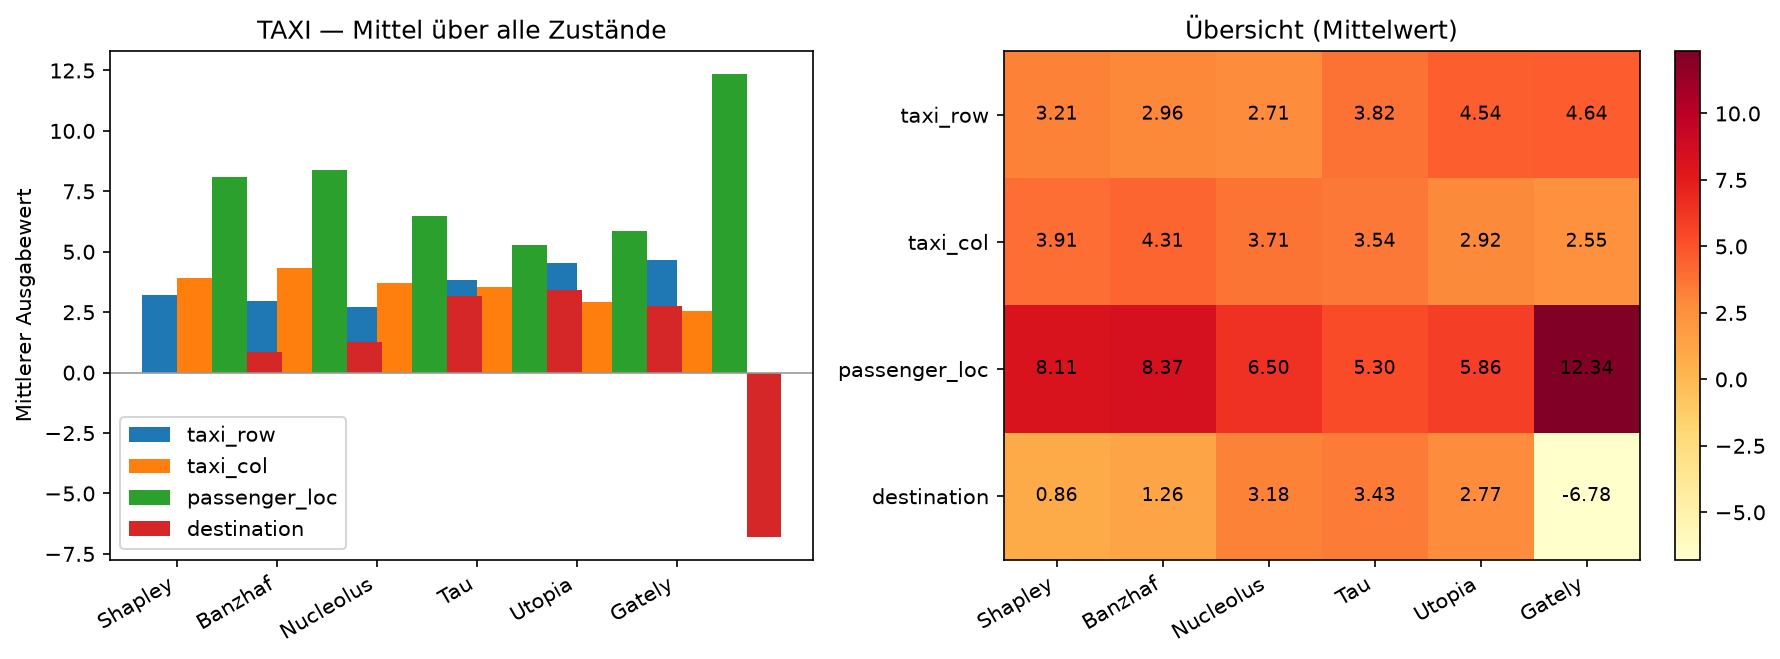
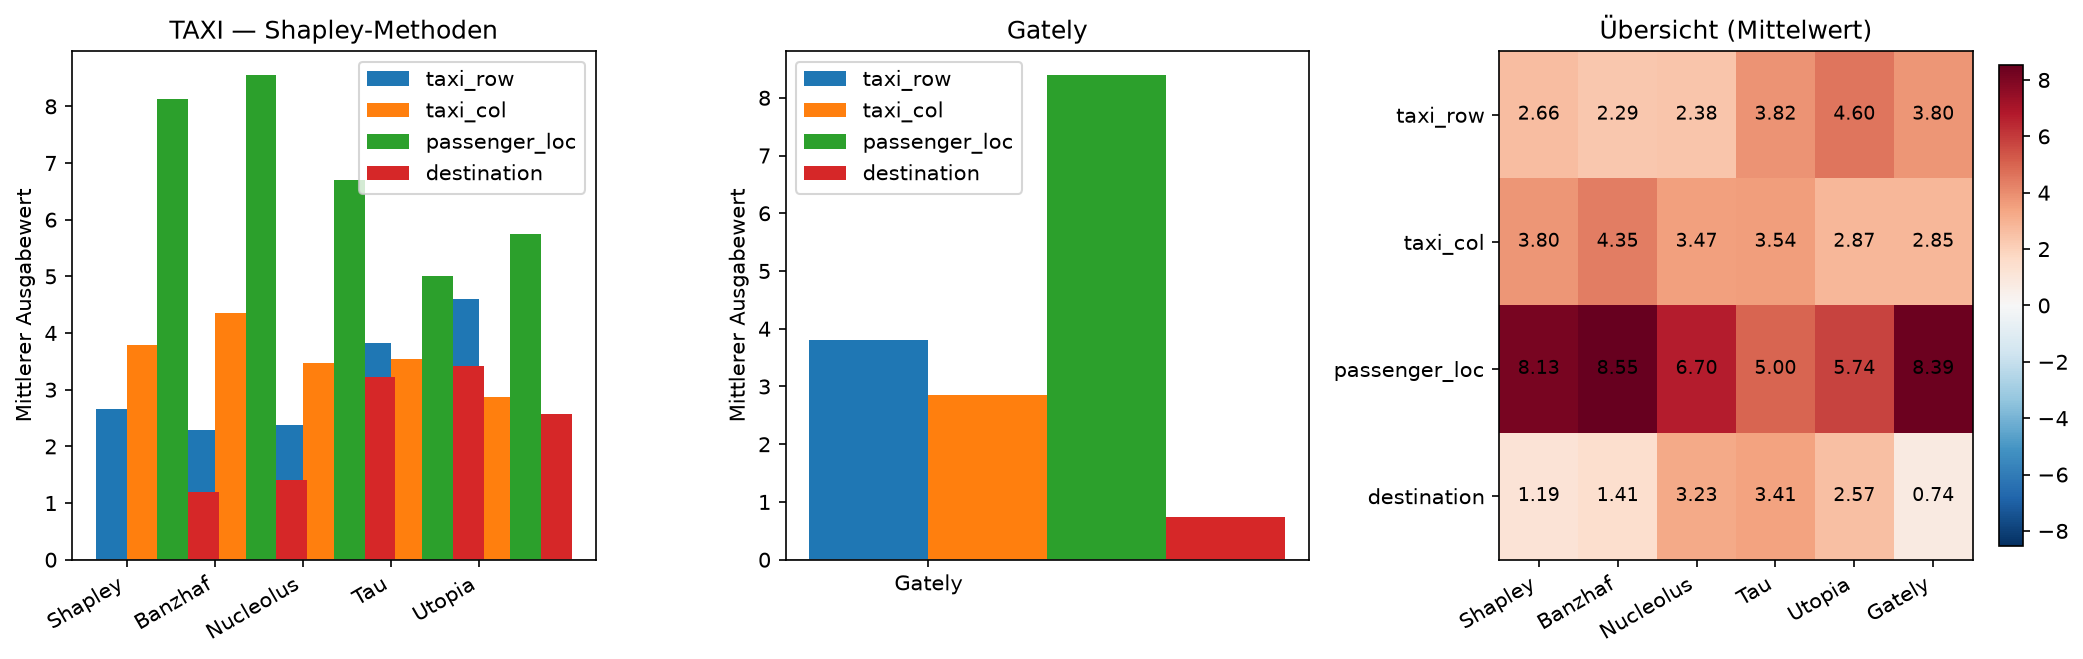
Update Ausgabewert comparison data for Taxi, including new feature values and updated visual representation

diff --git a/Ausgabewert/taxi/AUSGABEWERTE.md b/Ausgabewert/taxi/AUSGABEWERTE.md
@@ -19,28 +19,28 @@ Value Iteration (γ=0.99) | Charakteristik: **local_sverl** | Rolls: 300
 
 | Feature | Shapley | Banzhaf | Nucleolus | Tau | Utopia | Gately |
 |:-------:|--------:|--------:|--------:|--------:|--------:|--------:|
-| taxi_row | 3.212 | 2.957 | 2.709 | 3.819 | 4.540 | 4.640 |
-| taxi_col | 3.909 | 4.312 | 3.709 | 3.543 | 2.924 | 2.551 |
-| passenger_loc | 8.111 | 8.373 | 6.495 | 5.297 | 5.858 | 12.342 |
-| destination | 0.861 | 1.255 | 3.180 | 3.433 | 2.771 | -6.784 |
+| taxi_row | 2.661 | 2.288 | 2.377 | 3.817 | 4.597 | 3.804 |
+| taxi_col | 3.797 | 4.346 | 3.474 | 3.543 | 2.865 | 2.849 |
+| passenger_loc | 8.131 | 8.546 | 6.696 | 5.003 | 5.743 | 8.388 |
+| destination | 1.187 | 1.410 | 3.228 | 3.412 | 2.570 | 0.736 |
 
 ## Detailtabelle (pro Zustand)
 
 | Zustand | Feature | Shapley | Banzhaf | Nucleolus | Tau | Utopia | Gately |
 |:--------|:-------:|--------:|--------:|--------:|--------:|--------:|--------:|
-| `(0, 0, 0, 1)` | taxi_row | 4.394 | 3.526 | 5.367 | 6.788 | 8.372 | 2.732 |
-| `(0, 0, 0, 1)` | taxi_col | 7.056 | 8.757 | 9.338 | 6.008 | 3.655 | 2.931 |
-| `(0, 0, 0, 1)` | passenger_loc | 14.499 | 15.992 | 11.512 | 7.648 | 13.854 | 1.147 |
-| `(0, 0, 0, 1)` | destination | -0.069 | 0.050 | -0.337 | 5.435 | 0.000 | 4.191 |
-| `(0, 0, 4, 1)` | taxi_row | -1.575 | -1.876 | -0.393 | 0.058 | 0.171 | 0.126 |
-| `(0, 0, 4, 1)` | taxi_col | -0.576 | -1.253 | 0.410 | 0.130 | 0.385 | 0.829 |
-| `(0, 0, 4, 1)` | passenger_loc | 4.945 | 4.352 | 2.530 | 2.718 | 2.434 | 10.148 |
-| `(0, 0, 4, 1)` | destination | 0.605 | 0.381 | 0.853 | 0.494 | 0.410 | 0.898 |
-| `(0, 4, 4, 1)` | taxi_row | 7.064 | 7.340 | 2.638 | 6.967 | 8.594 | 13.532 |
-| `(0, 4, 4, 1)` | taxi_col | 6.458 | 7.244 | 1.910 | 6.617 | 6.694 | 4.376 |
-| `(0, 4, 4, 1)` | passenger_loc | 8.975 | 9.399 | 9.653 | 5.463 | 0.434 | 33.565 |
-| `(0, 4, 4, 1)` | destination | 3.899 | 5.688 | 12.195 | 7.350 | 10.674 | -31.472 |
-| `(2, 2, 2, 3)` | taxi_row | 2.966 | 2.837 | 3.223 | 1.465 | 1.023 | 2.171 |
-| `(2, 2, 2, 3)` | taxi_col | 2.697 | 2.498 | 3.177 | 1.418 | 0.961 | 2.069 |
-| `(2, 2, 2, 3)` | passenger_loc | 4.024 | 3.750 | 2.287 | 5.359 | 6.710 | 4.511 |
-| `(2, 2, 2, 3)` | destination | -0.993 | -1.098 | 0.007 | 0.451 | 0.000 | -0.751 |
+| `(0, 0, 0, 1)` | taxi_row | 2.636 | 1.368 | 4.397 | 6.823 | 8.691 | 6.365 |
+| `(0, 0, 0, 1)` | taxi_col | 7.512 | 9.716 | 10.073 | 6.067 | 3.619 | 3.891 |
+| `(0, 0, 0, 1)` | passenger_loc | 15.686 | 17.649 | 11.760 | 7.567 | 13.673 | 14.747 |
+| `(0, 0, 0, 1)` | destination | 0.149 | -0.151 | -0.247 | 5.527 | 0.000 | 0.980 |
+| `(0, 0, 4, 1)` | taxi_row | -1.626 | -1.983 | -0.332 | 0.079 | 0.175 | -1.623 |
+| `(0, 0, 4, 1)` | taxi_col | -0.612 | -1.174 | -0.462 | 0.212 | 0.472 | -0.198 |
+| `(0, 0, 4, 1)` | passenger_loc | 4.702 | 4.143 | 2.823 | 2.342 | 2.110 | 4.083 |
+| `(0, 0, 4, 1)` | destination | 0.763 | 0.477 | 1.198 | 0.594 | 0.469 | 0.965 |
+| `(0, 4, 4, 1)` | taxi_row | 6.565 | 6.863 | 2.047 | 6.730 | 8.502 | 7.775 |
+| `(0, 4, 4, 1)` | taxi_col | 5.296 | 5.960 | 0.803 | 6.170 | 6.217 | 5.118 |
+| `(0, 4, 4, 1)` | passenger_loc | 8.314 | 8.810 | 10.088 | 5.117 | 0.370 | 10.378 |
+| `(0, 4, 4, 1)` | destination | 4.725 | 6.226 | 11.962 | 6.883 | 9.812 | 1.629 |
+| `(2, 2, 2, 3)` | taxi_row | 3.069 | 2.906 | 3.397 | 1.637 | 1.020 | 2.698 |
+| `(2, 2, 2, 3)` | taxi_col | 2.993 | 2.882 | 3.483 | 1.724 | 1.152 | 2.584 |
+| `(2, 2, 2, 3)` | passenger_loc | 3.822 | 3.581 | 2.113 | 4.988 | 6.821 | 4.343 |
+| `(2, 2, 2, 3)` | destination | -0.891 | -0.911 | 0.000 | 0.644 | 0.000 | -0.633 |
